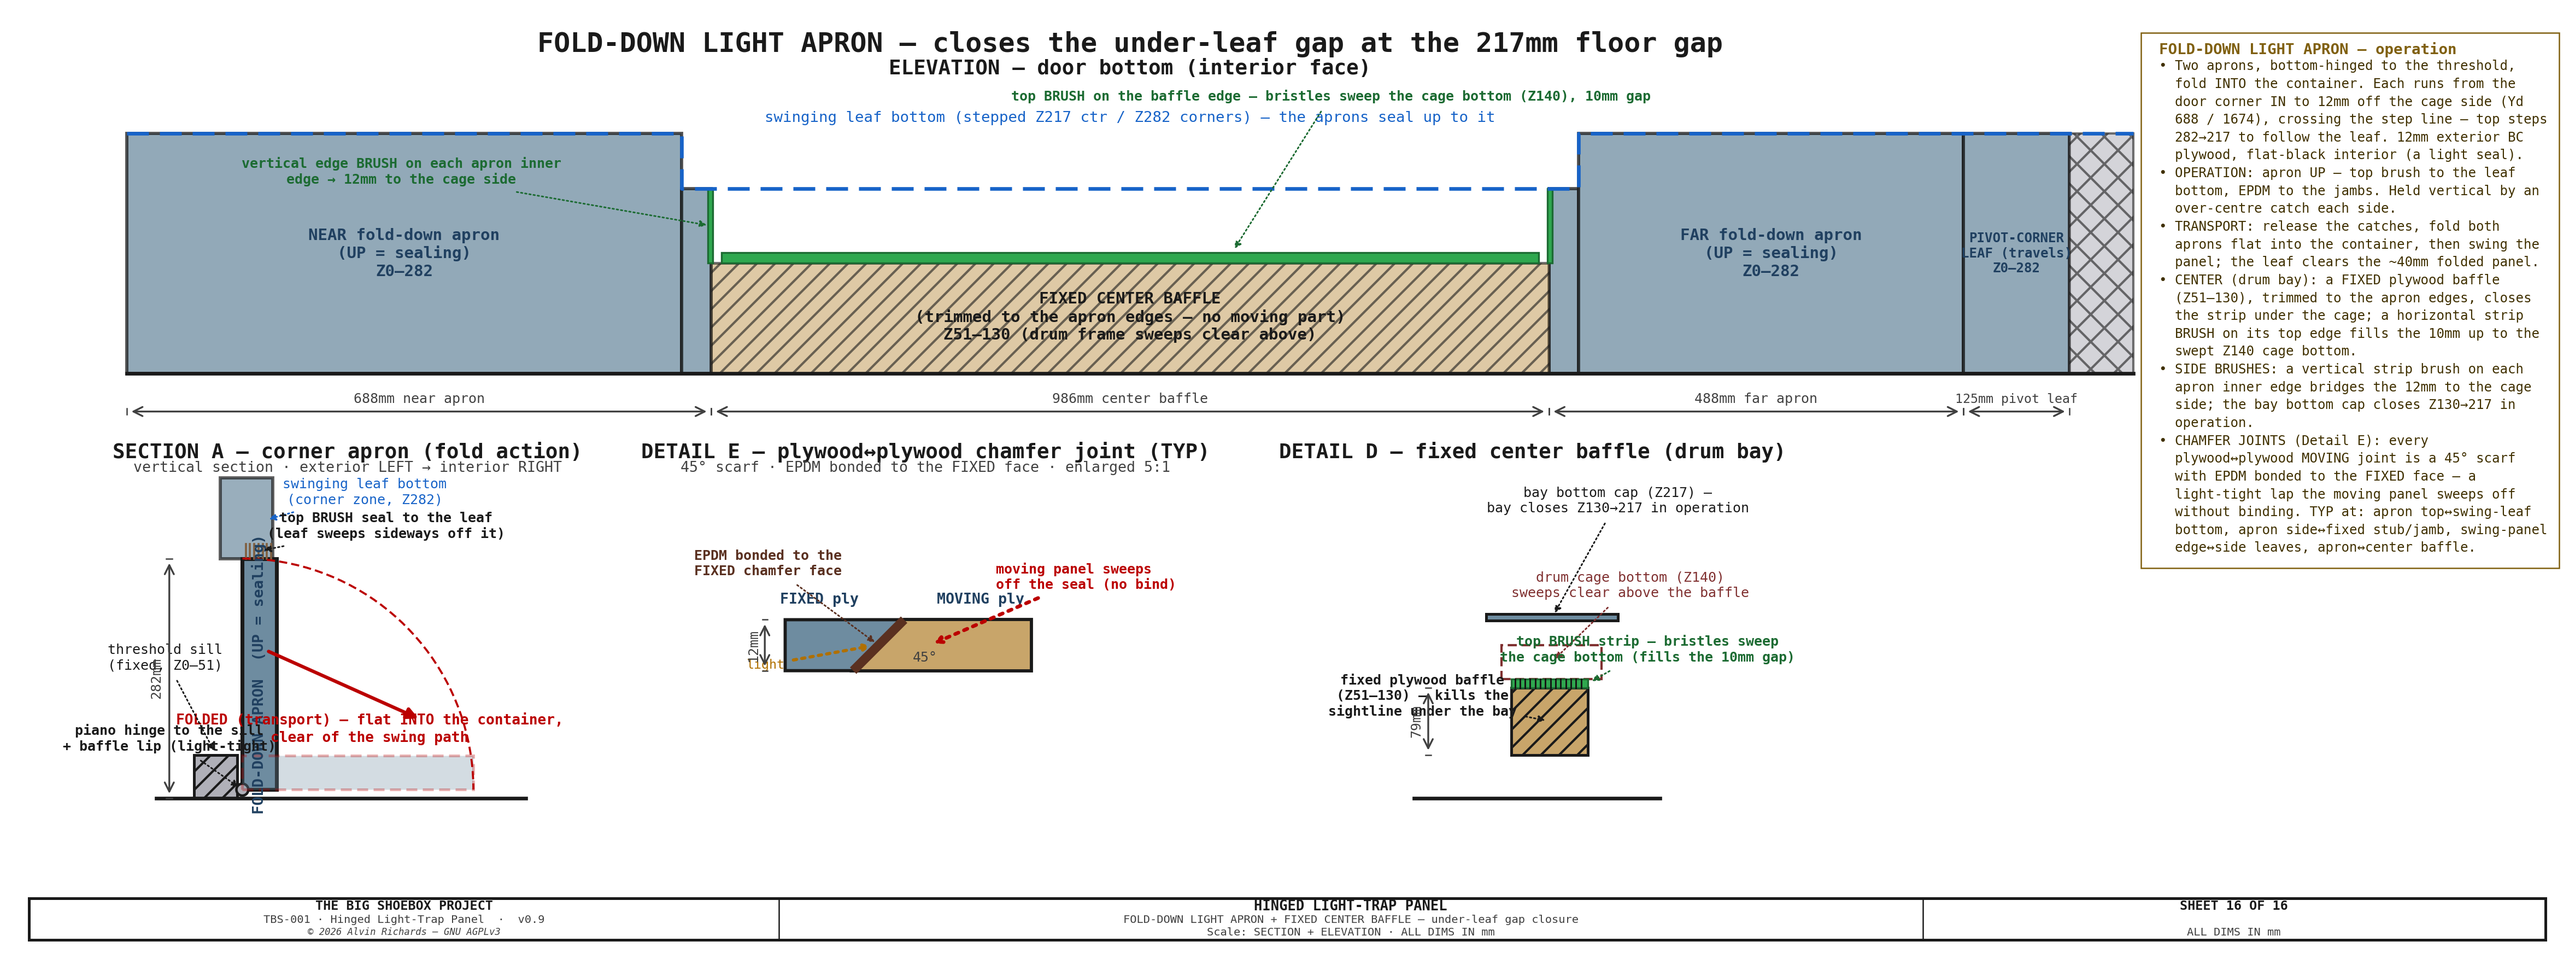
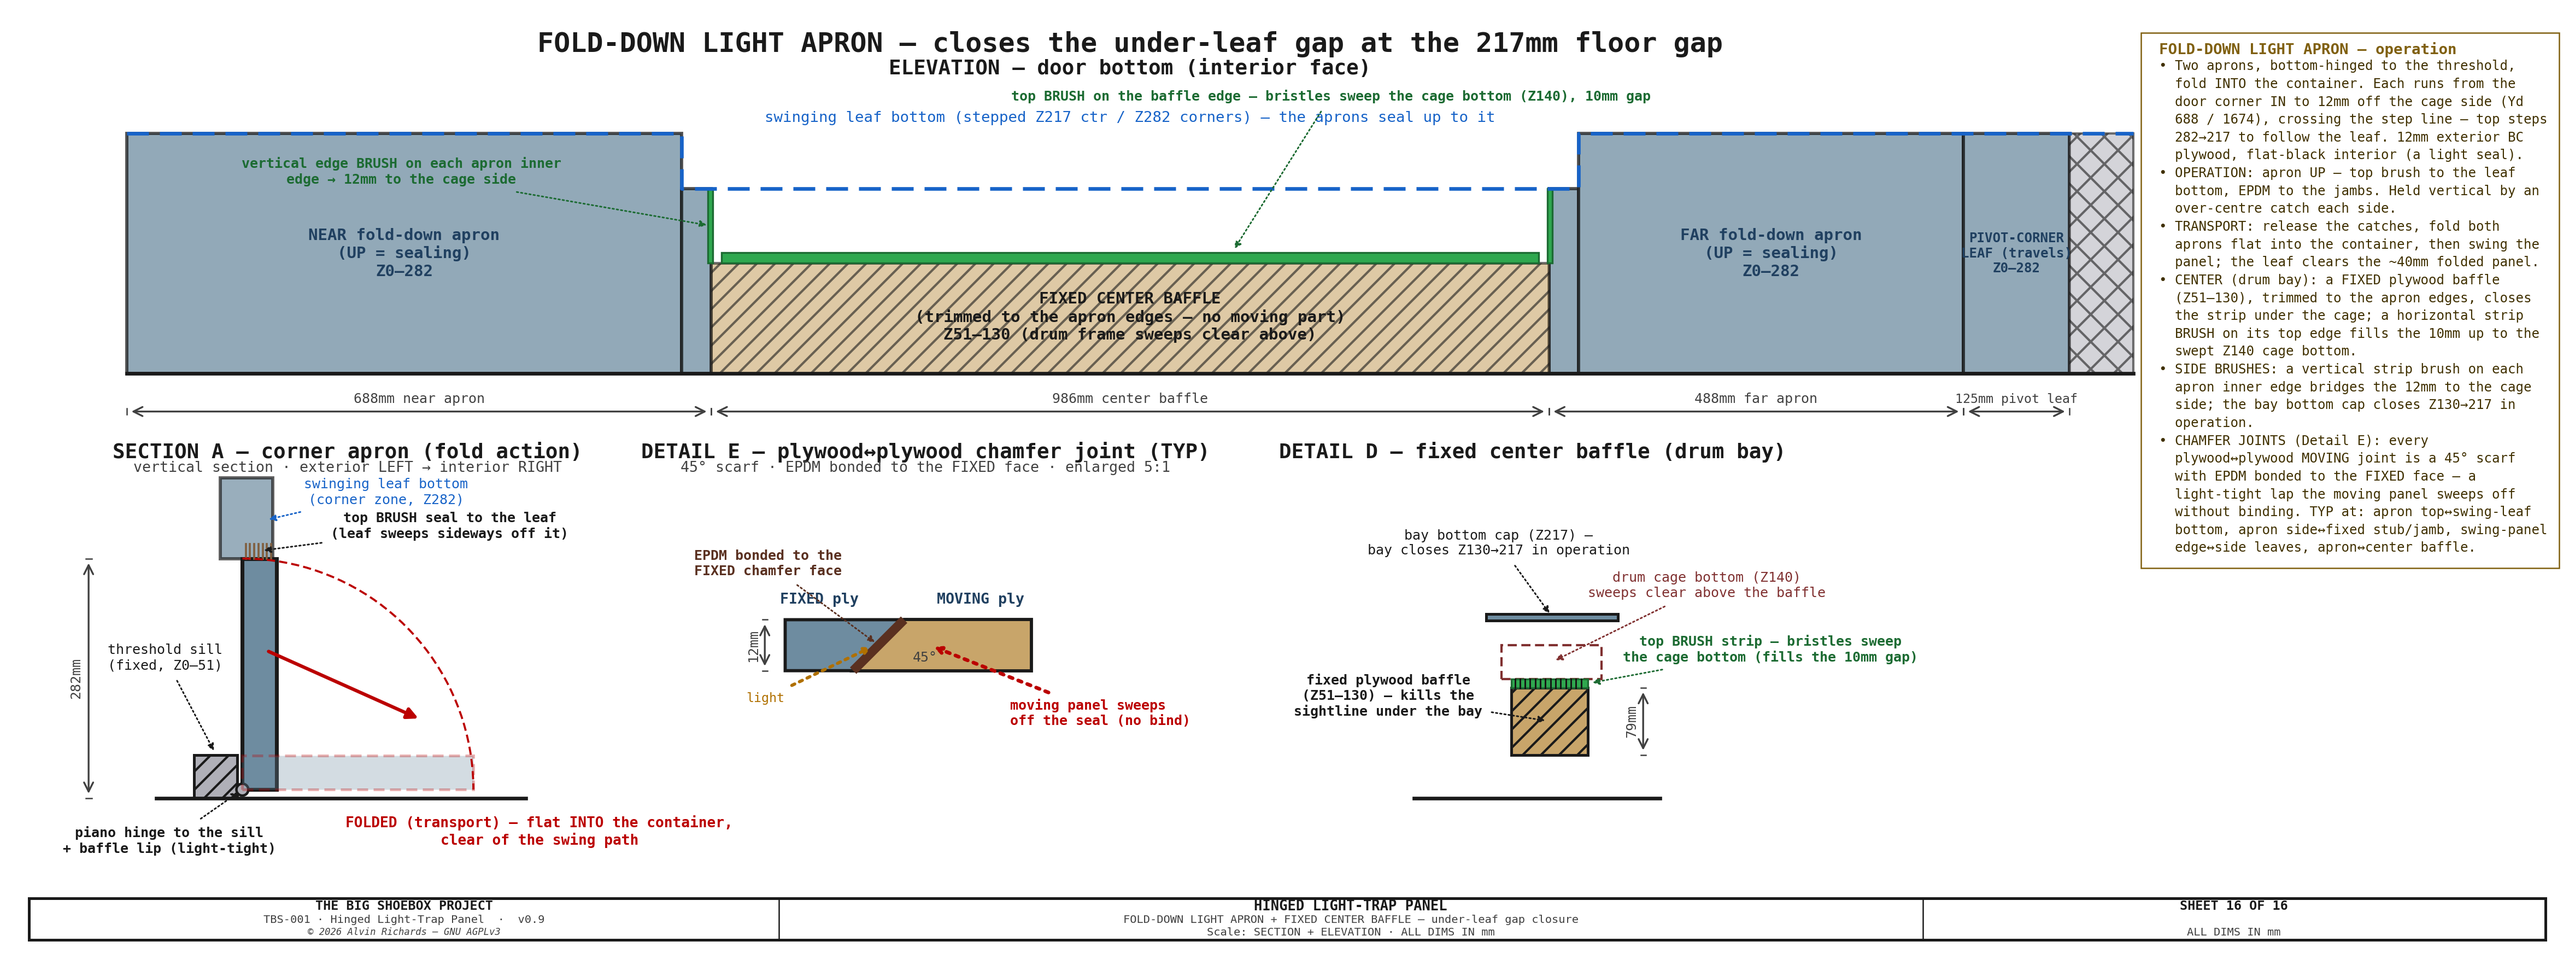
Tidy labels

diff --git a/src/generators/generate_hingepanel_diagram.py b/src/generators/generate_hingepanel_diagram.py
@@ -2627,25 +2627,23 @@ def sheet16():
     ax.add_patch(Rectangle(aA(-51, 0), 51, THR, fc=C_STEEL, ec=C_OUT, lw=1.2, hatch="///"))            # threshold sill
     leader(ax, aA(-25, THR), aA(-85, 165), "threshold sill\n(fixed, Z0–51)", col=C_OUT, fs=6)
     ax.add_patch(Rectangle(aA(-20, ATOP), 62, 95, fc=C_PLASTIC, ec=C_OUT, lw=1.4, alpha=0.7))          # leaf bottom (corner)
-    leader(ax, aA(32, ATOP + 45), aA(150, 360), "swinging leaf bottom\n(corner zone, Z282)", col="#1763C8", fs=6)
+    leader(ax, aA(32, ATOP + 45), aA(175, 360), "swinging leaf bottom\n(corner zone, Z282)", col="#1763C8", fs=6)
     hx, hz = 6, 10
     ax.add_patch(Rectangle(aA(hx, hz), AT, ATOP - hz, fc=C_PLASTIC, ec=C_OUT, lw=1.7))                 # apron UP
-    ax.text(a0 + hx + AT / 2, (ATOP + hz) / 2, "FOLD-DOWN APRON  (UP = sealing)", ha="center", va="center",
-            fontsize=6.6, fontweight="bold", color="#204060", **FONT, rotation=90)
     for bxx in range(int(a0 + hx + 4), int(a0 + hx + AT - 2), 5):                                      # top brush seal
         ax.plot([bxx, bxx], [ATOP, ATOP + 17], color="#806040", lw=0.9)
-    leader(ax, aA(hx + AT / 2, ATOP + 9), aA(175, 320), "top BRUSH seal to the leaf\n(leaf sweeps sideways off it)", col=C_OUT, fw="bold", fs=6)
+    leader(ax, aA(hx + AT / 2, ATOP + 9), aA(250, 320), "top BRUSH seal to the leaf\n(leaf sweeps sideways off it)", col=C_OUT, fw="bold", fs=6)
     ax.add_patch(Circle(aA(hx, hz), 7, fc=C_STEEL, ec=C_OUT, lw=1.1))                                  # bottom hinge
-    leader(ax, aA(hx, hz), aA(-80, 70), "piano hinge to the sill\n+ baffle lip (light-tight)", col=C_OUT, fw="bold", fs=6)
+    leader(ax, aA(hx, hz), aA(-80, -50), "piano hinge to the sill\n+ baffle lip (light-tight)", col=C_OUT, fw="bold", fs=6)
     R = ATOP - hz
     th = np.linspace(np.pi / 2, 0, 40)                                                                 # fold arc (top edge)
     ax.plot(a0 + hx + R * np.cos(th), hz + R * np.sin(th), color="#B00", lw=0.9, ls=(0, (4, 2)))
     ax.annotate("", xy=aA(hx + R * 0.78, hz + R * 0.30), xytext=aA(hx + 26, ATOP * 0.62),
                 arrowprops=dict(arrowstyle="-|>", color="#B00", lw=1.5))
     ax.add_patch(Rectangle(aA(hx, hz), R, AT, fc=C_PLASTIC, ec="#B00", lw=1.2, ls=(0, (4, 2)), alpha=0.30))  # folded (transport)
-    ax.text(a0 + hx + R * 0.55, hz + AT + 16, "FOLDED (transport) — flat INTO the container,\nclear of the swing path",
+    ax.text(a0 + hx + R * 0.55 + 200, hz - AT - 25, "FOLDED (transport) — flat INTO the container,\nclear of the swing path",
             ha="center", fontsize=6.3, color="#B00", fontweight="bold", **FONT)
-    draw_dim_v(ax, a0 - 80, 0, ATOP, f"{int(ATOP)}mm", offset=12, fs=6, font=FONT)
+    draw_dim_v(ax, a0 - 175, 0, ATOP, f"{int(ATOP)}mm", offset=12, fs=6, font=FONT)
 
     # ══ DETAIL D (X–Z) — fixed center baffle under the bay (bottom-right) ══
     d0 = 1560
@@ -2653,17 +2651,17 @@ def sheet16():
     ax.text(d0 + 95, 400, "DETAIL D — fixed center baffle (drum bay)", ha="center", fontsize=9, fontweight="bold", color=C_OUT, **FONT)
     ax.plot([d0 - 45, d0 + 245], [0, 0], color=C_OUT, lw=1.6)
     ax.add_patch(Rectangle(dD(40, BAYB - 8), 155, 8, fc=C_PLASTIC, ec=C_OUT, lw=1.2))                  # bay bottom cap Z217
-    leader(ax, dD(118, BAYB - 4), dD(195, 350), "bay bottom cap (Z217) —\nbay closes Z130→217 in operation", col=C_OUT, fs=6)
+    leader(ax, dD(118, BAYB - 4), dD(55, 300), "bay bottom cap (Z217) —\nbay closes Z130→217 in operation", col=C_OUT, fs=6)
     ax.add_patch(Rectangle(dD(58, LT_CAGE_BOT), 118, 40, fc="none", ec="#803030", lw=1.0, ls=(0, (4, 2))))   # drum cage ghost (bottom beam)
-    leader(ax, dD(117, LT_CAGE_BOT + 20), dD(210, 250), f"drum cage bottom (Z{int(LT_CAGE_BOT)})\nsweeps clear above the baffle", col="#803030", fs=6)
+    leader(ax, dD(117, LT_CAGE_BOT + 20), dD(300, 250), f"drum cage bottom (Z{int(LT_CAGE_BOT)})\nsweeps clear above the baffle", col="#803030", fs=6)
     ax.add_patch(Rectangle(dD(70, THR), 90, BAF_TOP - THR, fc="#C8A56A", ec=C_OUT, lw=1.2, hatch="///"))      # fixed plywood baffle Z51..130
-    leader(ax, dD(115, (THR + BAF_TOP) / 2), dD(-35, 120), f"fixed plywood baffle\n(Z{THR}–{int(BAF_TOP)}) — kills the\nsightline under the bay", col=C_OUT, fw="bold", fs=6)
+    leader(ax, dD(115, (THR + BAF_TOP) / 2), dD(-75, 120), f"fixed plywood baffle\n(Z{THR}–{int(BAF_TOP)}) — kills the\nsightline under the bay", col=C_OUT, fw="bold", fs=6)
     # horizontal strip brush on the baffle top edge — fills the 10mm gap up to the swept cage bottom
     ax.add_patch(Rectangle(dD(70, BAF_TOP), 90, LT_CAGE_BOT - BAF_TOP, fc="#2FA84F", ec="#1c6b32", lw=0.8))
     for bx in range(int(dD(74, 0)[0]), int(dD(158, 0)[0]), 6):
         ax.plot([bx, bx], [BAF_TOP, LT_CAGE_BOT], color="#141414", lw=0.7)
-    leader(ax, dD(160, (BAF_TOP + LT_CAGE_BOT) / 2), dD(230, 175), "top BRUSH strip — bristles sweep\nthe cage bottom (fills the 10mm gap)", col="#1c6b32", fw="bold", fs=6)
-    draw_dim_v(ax, d0 - 28, THR, BAF_TOP, f"{int(BAF_TOP - THR)}mm", offset=10, fs=6, font=FONT)
+    leader(ax, dD(160, (BAF_TOP + LT_CAGE_BOT) / 2), dD(375, 175), "top BRUSH strip — bristles sweep\nthe cage bottom (fills the 10mm gap)", col="#1c6b32", fw="bold", fs=6)
+    draw_dim_v(ax, d0 + 225, THR, BAF_TOP, f"{int(BAF_TOP - THR)}mm", offset=10, fs=6, font=FONT)
 
     # ══ DETAIL E (enlarged 5:1) — plywood↔plywood 45° chamfer joint (TYP of all moving plywood joints) ══
     e0, ebz, S = 775, 150, 5.0
@@ -2681,9 +2679,9 @@ def sheet16():
     ax.text(*eE(xc / 2, T + 3), "FIXED ply", ha="center", va="bottom", fontsize=6.4, fontweight="bold", color="#204060", **FONT)
     ax.text(*eE(xc + T + BL * 0.6, T + 3), "MOVING ply", ha="center", va="bottom", fontsize=6.4, fontweight="bold", color="#204060", **FONT)
     bx, bz = eE(xc + T + 6, T / 2)                                          # moving panel sweeps off along the 45° normal
-    leader(ax, (bx, bz), (bx + 78, bz + 80), "moving panel sweeps\noff the seal (no bind)",
+    leader(ax, (bx, bz), (bx + 95, bz - 80), "moving panel sweeps\noff the seal (no bind)",
            col="#B00", fw="bold", fs=6, ha="left", arrow_style="-|>", lw=1.6)
-    leader(ax, (eE(xc + T / 2, T / 2)[0] - 4, ebz + T * S * 0.5), (e0 - 46, ebz + T * S * 0.5 - 16),
+    leader(ax, (eE(xc + T / 2, T / 2)[0] - 4, ebz + T * S * 0.5), (e0 - 46, ebz + T * S * 0.5 - 55),
            "light", col="#B07000", fs=5.6, ha="left", va="top", arrow_style="-|>", lw=1.4)   # light ray blocked at the diagonal lap
     draw_dim_v(ax, e0 - 24, ebz, ebz + T * S, "12mm", offset=10, fs=6, font=FONT)
     ax.text(*eE(xc + T + 2, 1.5), "45°", ha="left", va="bottom", fontsize=6, color=C_DIM, **FONT)
